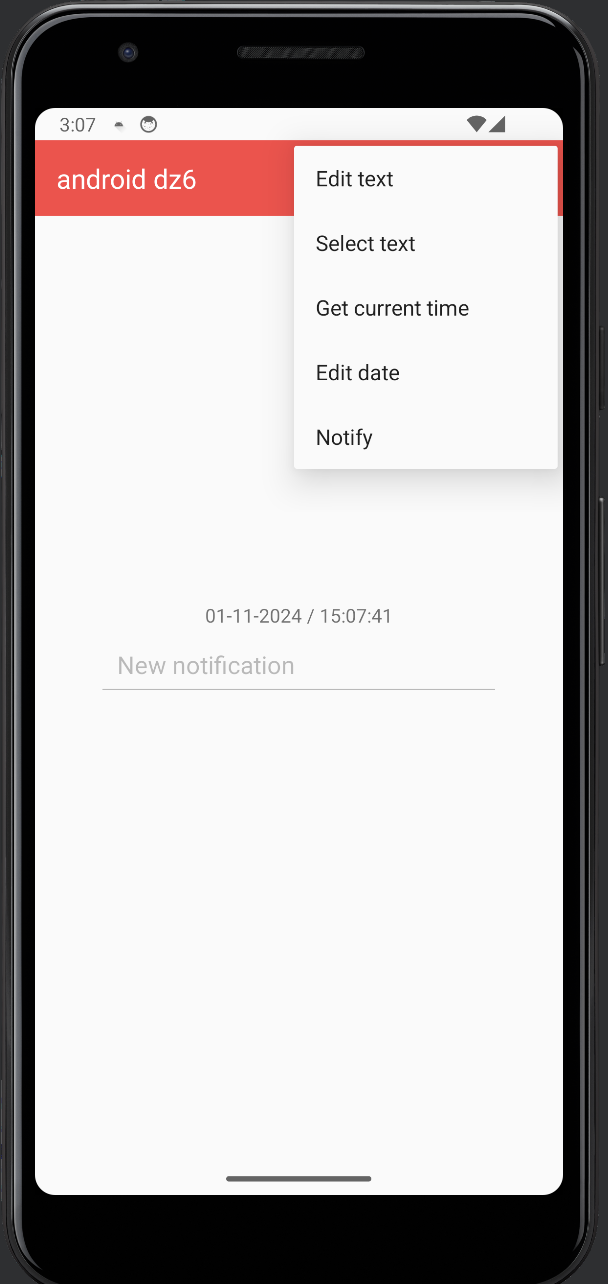
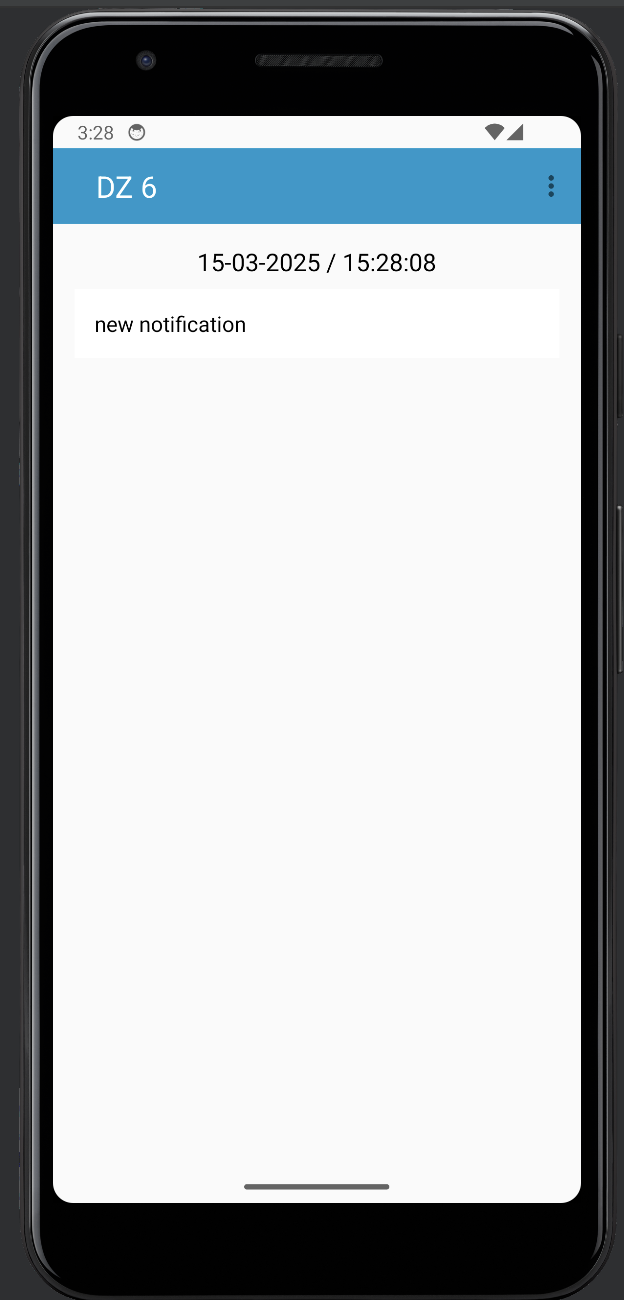
some changes

diff --git a/app/src/main/java/com/example/android_dz6/MainActivity.java b/app/src/main/java/com/example/android_dz6/MainActivity.java
@@ -25,21 +25,20 @@ import java.util.Calendar;
 
 public class MainActivity extends AppCompatActivity implements IText {
 
-    private Calendar dateAndTime;
-    private DatePickerDialog.OnDateSetListener dateListener;
+    private Calendar currentCalendar;
+    private DatePickerDialog.OnDateSetListener onDateSetListener;
 
-    private TextView editTimeTextView;
-    private EditText editTextMain;
-
+    private TextView timeTextView;
+    private EditText mainEditText;
 
     @Override
     protected void onCreate(Bundle savedInstanceState) {
         super.onCreate(savedInstanceState);
         EdgeToEdge.enable(this);
         setContentView(R.layout.activity_main);
-        ViewCompat.setOnApplyWindowInsetsListener(findViewById(R.id.main), (v, insets) -> {
-            Insets systemBars = insets.getInsets(WindowInsetsCompat.Type.systemBars());
-            v.setPadding(systemBars.left, systemBars.top, systemBars.right, systemBars.bottom);
+        ViewCompat.setOnApplyWindowInsetsListener(findViewById(R.id.main), (view, insets) -> {
+            Insets systemInsets = insets.getInsets(WindowInsetsCompat.Type.systemBars());
+            view.setPadding(systemInsets.left, systemInsets.top, systemInsets.right, systemInsets.bottom);
             return insets;
         });
 
@@ -50,16 +49,16 @@ public class MainActivity extends AppCompatActivity implements IText {
             getSupportActionBar().setDisplayShowTitleEnabled(false);
         }
 
-        init();
+        initializeViews();
 
-        MyNotificationManager.createNotificationChannel(this);
+        NotificationManager.createNotificationChannel(this);
 
-        dateAndTime = Calendar.getInstance();
-        dateListener = (DatePicker view, int year, int monthOfYear, int dayOfMonth) -> {
-            dateAndTime.set(Calendar.YEAR, year);
-            dateAndTime.set(Calendar.MONTH, monthOfYear);
-            dateAndTime.set(Calendar.DAY_OF_MONTH, dayOfMonth);
-            setDate();
+        currentCalendar = Calendar.getInstance();
+        onDateSetListener = (DatePicker datePicker, int year, int month, int day) -> {
+            currentCalendar.set(Calendar.YEAR, year);
+            currentCalendar.set(Calendar.MONTH, month);
+            currentCalendar.set(Calendar.DAY_OF_MONTH, day);
+            updateDateDisplay();
         };
     }
 
@@ -70,42 +69,23 @@ public class MainActivity extends AppCompatActivity implements IText {
     }
 
     @Override
-    public boolean onOptionsItemSelected(MenuItem item) {
-        int itemId = item.getItemId();
+    public boolean onOptionsItemSelected(MenuItem menuItem) {
+        int itemId = menuItem.getItemId();
 
         if (!AppConstant.ALL_ACTIONS_MENU.contains(itemId)) {
-            return super.onOptionsItemSelected(item);
+            return super.onOptionsItemSelected(menuItem);
         }
 
         if (itemId == R.id.action_edit_text) {
-            EditTextDialog dialog = new EditTextDialog();
-            Bundle args = new Bundle();
-            args.putString("str", editTextMain.getText().toString());
-            dialog.setArguments(args);
-            dialog.show(getSupportFragmentManager(), "dialog");
-        }
-        else if (itemId == R.id.action_select_text) {
-            SelectTextDialog dialog = new SelectTextDialog();
-            dialog.show(getSupportFragmentManager(), "dialog");
-        }
-        else if (itemId == R.id.action_get_current_time) {
-            MyNotificationManager.showNotification(
-                    MainActivity.this,
-                    "Current date and time",
-                    TestUtils.getCurrentDateTime()
-            );
-        }
-        else if (itemId == R.id.action_change_date) {
-            showChoiceDate();
-        }
-        else if (itemId == R.id.action_show_notification) {
-            String text = editTextMain.getText().toString();
-            if (!text.isEmpty()) {
-                MyNotificationManager.showNotification(
-                        MainActivity.this,
-                        "Current text",
-                        text + " (" + TestUtils.getCurrentDateTime() + ")");
-            }
+            displayEditTextDialog();
+        } else if (itemId == R.id.action_select_text) {
+            displaySelectTextDialog();
+        } else if (itemId == R.id.action_get_current_time) {
+            showCurrentTimeNotification();
+        } else if (itemId == R.id.action_change_date) {
+            openDatePicker();
+        } else if (itemId == R.id.action_show_notification) {
+            showInputTextNotification();
         }
 
         return true;
@@ -113,27 +93,57 @@ public class MainActivity extends AppCompatActivity implements IText {
 
     @Override
     public void setText(String text) {
-        editTextMain.setText(text);
-        editTimeTextView.setText(TestUtils.getCurrentDateTime());
+        mainEditText.setText(text);
+        timeTextView.setText(TestUtils.getCurrentDateTime());
     }
 
-
-    private void init() {
-        editTimeTextView = findViewById(R.id.edit_time_text_view);
-        editTextMain = findViewById(R.id.edit_text_main);
+    private void initializeViews() {
+        timeTextView = findViewById(R.id.edit_time_text_view);
+        mainEditText = findViewById(R.id.edit_text_main);
     }
 
-    private void showChoiceDate() {
+    private void openDatePicker() {
         new DatePickerDialog(
                 MainActivity.this,
-                dateListener,
-                dateAndTime.get(Calendar.YEAR),
-                dateAndTime.get(Calendar.MONTH),
-                dateAndTime.get(Calendar.DAY_OF_MONTH)
+                onDateSetListener,
+                currentCalendar.get(Calendar.YEAR),
+                currentCalendar.get(Calendar.MONTH),
+                currentCalendar.get(Calendar.DAY_OF_MONTH)
         ).show();
     }
 
-    private void setDate() {
-        editTimeTextView.setText(TestUtils.getCurrentDateTime(dateAndTime));
+    private void updateDateDisplay() {
+        timeTextView.setText(TestUtils.getCurrentDateTime(currentCalendar));
+    }
+
+    private void displayEditTextDialog() {
+        EditTextDialog dialog = new EditTextDialog();
+        Bundle args = new Bundle();
+        args.putString("str", mainEditText.getText().toString());
+        dialog.setArguments(args);
+        dialog.show(getSupportFragmentManager(), "edit_dialog");
+    }
+
+    private void displaySelectTextDialog() {
+        SelectTextDialog dialog = new SelectTextDialog();
+        dialog.show(getSupportFragmentManager(), "select_dialog");
+    }
+
+    private void showCurrentTimeNotification() {
+        NotificationManager.showNotification(
+                MainActivity.this,
+                "Current date and time",
+                TestUtils.getCurrentDateTime()
+        );
+    }
+
+    private void showInputTextNotification() {
+        String inputText = mainEditText.getText().toString();
+        if (!inputText.isEmpty()) {
+            NotificationManager.showNotification(
+                    MainActivity.this,
+                    "Current input",
+                    inputText + " (" + TestUtils.getCurrentDateTime() + ")");
+        }
     }
 }

diff --git a/app/src/main/java/com/example/android_dz6/NotificationManager.java b/app/src/main/java/com/example/android_dz6/NotificationManager.java
@@ -1,26 +1,25 @@
 package com.example.android_dz6;
 
 import android.app.NotificationChannel;
-import android.app.NotificationManager;
 import android.content.Context;
 import android.os.Build;
 import android.util.Log;
 
 import androidx.core.app.NotificationCompat;
 
-public class MyNotificationManager {
+public class NotificationManager {
 
-    private static final String CHANNEL_ID = "my_notification_id";
-    private static final String CHANNEL_NAME = "My Channel";
-    private static final String CHANNEL_DESCRIPTION = "My Channel Description";
+    private static final String CHANNEL_ID = "notification_id";
+    private static final String CHANNEL_NAME = "channel";
+    private static final String CHANNEL_DESCRIPTION = "channel description";
 
     public static void createNotificationChannel(Context context) {
         if (Build.VERSION.SDK_INT >= Build.VERSION_CODES.O) {
             Log.d("NotificationManager", "Creating notification channel: " + CHANNEL_ID);
-            int importance = NotificationManager.IMPORTANCE_HIGH; // Изменено на HIGH
+            int importance = android.app.NotificationManager.IMPORTANCE_HIGH; // Изменено на HIGH
             NotificationChannel channel = new NotificationChannel(CHANNEL_ID, CHANNEL_NAME, importance);
             channel.setDescription(CHANNEL_DESCRIPTION);
-            NotificationManager notificationManager = context.getSystemService(NotificationManager.class);
+            android.app.NotificationManager notificationManager = context.getSystemService(android.app.NotificationManager.class);
             notificationManager.createNotificationChannel(channel);
             Log.d("NotificationManager", "Notification channel created: " + CHANNEL_ID);
         }
@@ -40,7 +39,7 @@ public class MyNotificationManager {
                         .bigText("Here is more detail about the notification that you should see."))
                 .setVisibility(NotificationCompat.VISIBILITY_PUBLIC);
 
-        NotificationManager notificationManager = (NotificationManager) context.getSystemService(Context.NOTIFICATION_SERVICE);
+        android.app.NotificationManager notificationManager = (android.app.NotificationManager) context.getSystemService(Context.NOTIFICATION_SERVICE);
 
         if (notificationManager != null) {
             notificationManager.notify(1, builder.build());

diff --git a/app/src/main/java/com/example/android_dz6/util/AppConstant.java b/app/src/main/java/com/example/android_dz6/util/AppConstant.java
@@ -16,8 +16,8 @@ public class AppConstant {
         ALL_ACTIONS_MENU.add(R.id.action_show_notification);
 
         SELECT_TEXTS.add("Hello");
-        SELECT_TEXTS.add("Sergey");
-        SELECT_TEXTS.add("Moshtakov");
+        SELECT_TEXTS.add("Guten Tag");
+        SELECT_TEXTS.add("Bonjour");
         SELECT_TEXTS.add("How are you?");
         SELECT_TEXTS.add("New notification");
     }
